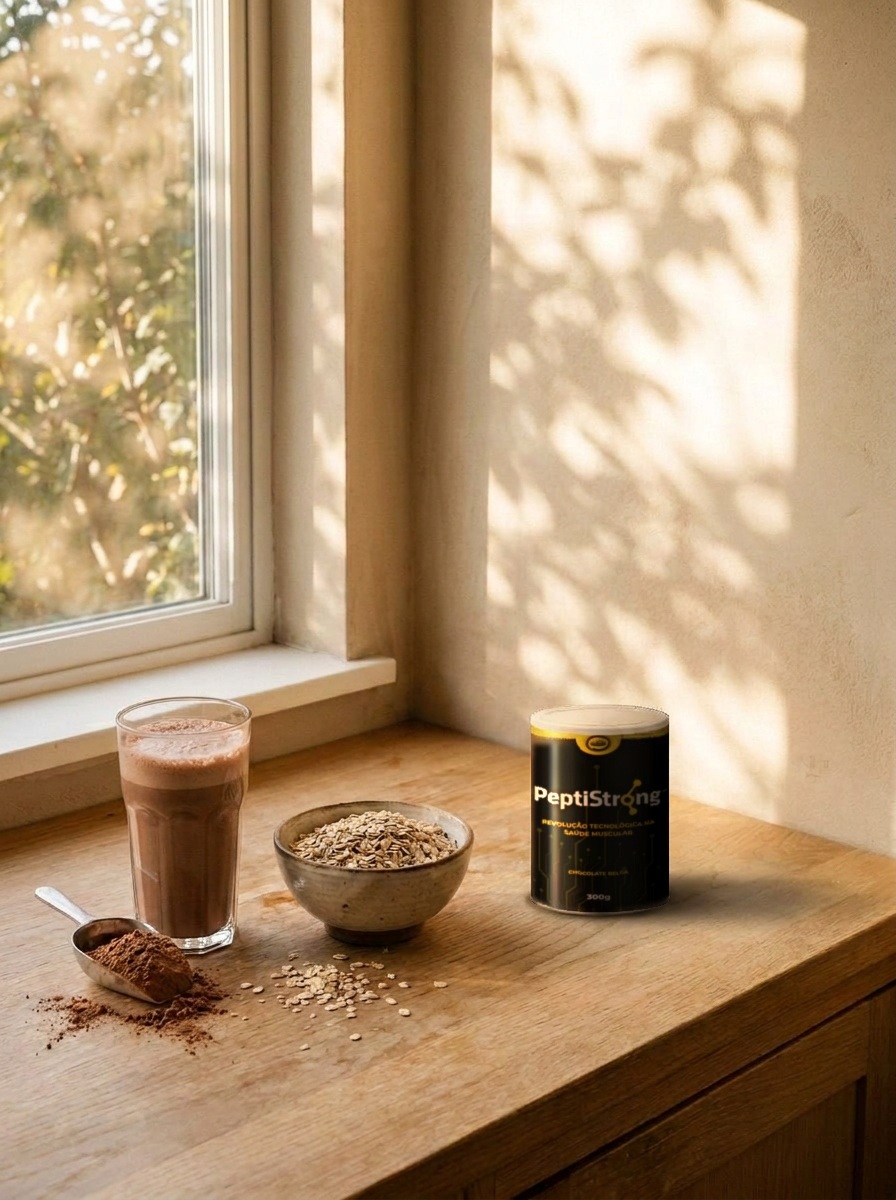
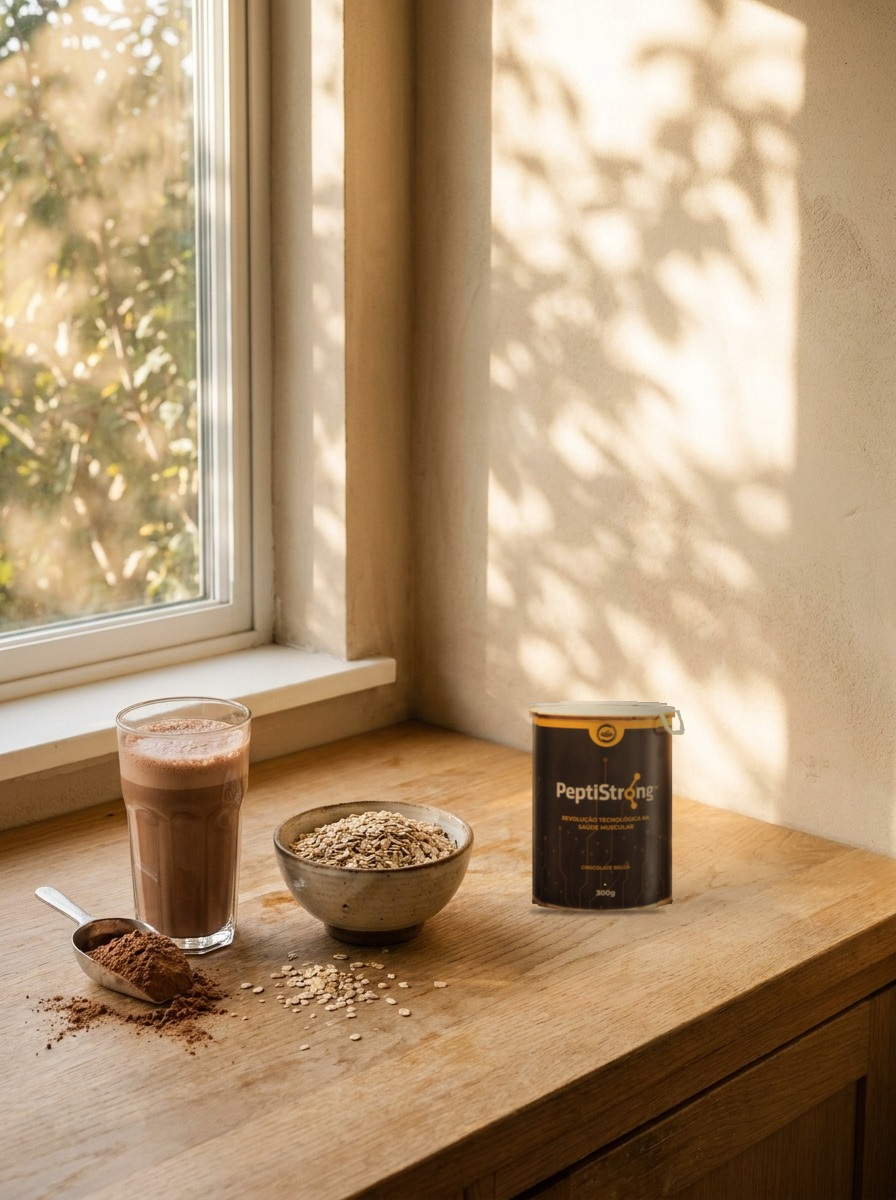
Procedimento obrigatório de inserção de produto em cena de IA, com verificação automática de fidelidade
Claude-Session: https://claude.ai/code/session_01Bm6rABw341qEUcQn2o9EUx

diff --git a/grade/insere_produto.py b/grade/insere_produto.py
@@ -1,8 +1,13 @@
-"""Insere a foto real de um produto (fundo branco) numa cena, com cuidado de naturalidade.
+"""Inserção de produto em cena gerada por IA. Procedimento obrigatório: docs/10-insercao-de-produto.md.
 
-Regra do padrão (docs/09-padrao-visual.md, seção 12): escala coerente com objetos vizinhos,
-perspectiva da câmera da cena (tampa e base em elipse), luz da cena sobre o produto
-(direção, cor e manchas de luz), sombra de contato e sombra projetada, mesma nitidez e grão.
+Funções em uso no procedimento:
+  px_por_cm(...)            escala da cena a partir de um objeto de referência de tamanho conhecido
+  razao_elipse(...)         ângulo da câmera (elipse da boca de copo/tigela/tampa)
+  insere_foto(...)          insere a FOTO REAL recortada do produto (sem deformar: curvatura_extra=0)
+  verifica_fidelidade(...)  compara o produto na arte final com a foto original (aprovação automática)
+
+Funções antigas (insere, recoloca_rotulo) ficaram para registro do teste de 08/11/2026; não usar em produção:
+partem do mockup 3D, que tem proporção errada e não é foto.
 """
 from PIL import Image, ImageDraw, ImageFilter, ImageEnhance, ImageChops
 import math
@@ -114,3 +119,99 @@ def recoloca_rotulo(cena_original, montagem, harmonizada, caixa_corpo, raio_luz=
     R = np.clip(bl(harmonizada) / bl(montagem), 0.45, 2.2)
     rot = np.clip(M * R, 0, 255) * 0.88 + A * 0.12
     return Image.fromarray((A * (1 - k) + rot * k).astype(np.uint8))
+
+
+def insere_foto(cena, recorte_png, base_centro, largura_corpo, frac_corpo=662/755, curvatura_extra=0.0,
+                cor_tampa=(240, 236, 228), luz_esq=1.12, luz_dir=0.72, cor_luz=(255, 240, 224), sombra_dir=(0.9, -0.12)):
+    """Insere uma FOTO REAL recortada do produto (PNG com transparência, tampa e alça reais).
+    largura_corpo: largura do corpo na cena, em px (medir contra o copo/tigela).
+    frac_corpo: largura do corpo / largura do recorte (o recorte inclui a alça).
+    curvatura_extra: quanto a câmera da cena olha mais de cima que a da foto (razão da elipse extra / 2).
+    luz_esq/luz_dir: ganho de luz nas laterais, para seguir a direção da luz da cena."""
+    import numpy as np
+    rc = Image.open(recorte_png).convert('RGBA') if isinstance(recorte_png, str) else recorte_png
+    w = int(largura_corpo / frac_corpo); h = int(rc.height * w / rc.width)
+    rc = rc.resize((w, h), Image.LANCZOS)
+    e = max(1, int(largura_corpo * curvatura_extra))
+    # 1) curvatura extra (câmera mais alta): colunas do corpo descem em arco; tampa ganha topo em elipse
+    out = Image.new('RGBA', (w, h + 2 * e), (0, 0, 0, 0))
+    cx0 = 0; cw = int(largura_corpo)
+    for x in range(w):
+        u = (x - cx0) / max(1, cw - 1) * 2 - 1
+        dy = int(round(e * math.sqrt(max(0, 1 - u * u)))) if -1 <= u <= 1 else 0
+        out.paste(rc.crop((x, 0, x + 1, h)), (x, e + dy))
+    topo = Image.new('RGBA', out.size, (0, 0, 0, 0)); td = ImageDraw.Draw(topo)
+    td.ellipse((1, 0, cw - 2, 2 * e + 3), fill=cor_tampa + (255,))
+    out = Image.alpha_composite(topo, out) if False else Image.alpha_composite(out, Image.new('RGBA', out.size, (0,0,0,0)))
+    base_alpha = out.split()[3]
+    topo_alpha = topo.split()[3]
+    merged = Image.alpha_composite(topo, out)  # corpo por cima; o topo só aparece onde abriu espaço
+    # 2) luz da cena: gradiente lateral + cor
+    rgb = merged.convert('RGB'); a = merged.split()[3]
+    g = Image.new('L', (rgb.width, 1))
+    for x in range(rgb.width):
+        t = x / (rgb.width - 1); g.putpixel((x, 0), int(255 * (luz_esq + (luz_dir - luz_esq) * t) / 1.3))
+    g = g.resize(rgb.size)
+    arr = np.asarray(rgb).astype(float) / 255
+    gl = np.asarray(g).astype(float)[..., None] / 255 * 1.3
+    arr = np.clip(arr * gl, 0, 1) * (np.array(cor_luz) / 255)
+    rgb = Image.fromarray((arr * 255).astype(np.uint8))
+    ox = int(base_centro[0] - cw / 2); oy = int(base_centro[1] - (h + 2 * e))
+    cena = cena.convert('RGB').copy()
+    # 3) manchas de luz da cena
+    reg = cena.crop((ox, oy, ox + rgb.width, oy + rgb.height)).convert('L').filter(ImageFilter.GaussianBlur(5))
+    st = reg.resize((1, 1), Image.BOX).getpixel((0, 0)) or 1
+    mod = reg.point(lambda v: max(0, min(255, int(255 * min(1.3, (v / st) ** 0.5) / 1.3))))
+    arr = np.asarray(rgb).astype(float) * (np.asarray(mod).astype(float)[..., None] / 255 * 1.3)
+    rgb = Image.fromarray(np.clip(arr, 0, 255).astype(np.uint8))
+    # 4) sombras de contato e projetada
+    camada = Image.new('L', cena.size, 0); cd = ImageDraw.Draw(camada)
+    bx0, bx1, by = ox, ox + cw, oy + rgb.height - e
+    dx, dy = sombra_dir[0] * h, sombra_dir[1] * h
+    cd.polygon([(bx0, by), (bx1, by), (bx1 + dx, by + dy), (bx0 + dx + cw * 0.2, by + dy)], fill=140)
+    camada = camada.filter(ImageFilter.GaussianBlur(max(8, cw // 9)))
+    contato = Image.new('L', cena.size, 0); ct = ImageDraw.Draw(contato)
+    ct.ellipse((ox + 1, by - e - 2, ox + cw - 1, by + e * 0.6 + 3), fill=220)
+    contato = contato.filter(ImageFilter.GaussianBlur(max(2, cw // 50)))
+    somb = ImageChops.lighter(camada, contato)
+    escuro = ImageChops.multiply(ImageEnhance.Brightness(cena).enhance(0.4), Image.new('RGB', cena.size, (255, 236, 222)))
+    cena = Image.composite(escuro, cena, somb)
+    # 5) light wrap, nitidez e grão
+    fundo = cena.crop((ox, oy, ox + rgb.width, oy + rgb.height)).filter(ImageFilter.GaussianBlur(8))
+    borda = ImageChops.subtract(a, a.filter(ImageFilter.MinFilter(5))).filter(ImageFilter.GaussianBlur(1.5))
+    rgb = Image.composite(Image.blend(rgb, fundo, 0.4), rgb, borda).filter(ImageFilter.GaussianBlur(0.5))
+    n = Image.effect_noise(rgb.size, 22).convert('RGB'); rgb = Image.blend(rgb, ImageChops.add(rgb, n, 2, -128), 0.12)
+    fin = rgb.convert('RGBA'); fin.putalpha(a)
+    res = cena.convert('RGBA'); res.alpha_composite(fin, (ox, oy)); return res.convert('RGB')
+
+
+
+def px_por_cm(tamanho_px, tamanho_cm):
+    """Escala da cena: tamanho medido em px de um objeto de referência / tamanho real em cm.
+    O objeto de referência deve estar na MESMA profundidade em que o produto vai ficar."""
+    return tamanho_px / tamanho_cm
+
+
+def razao_elipse(largura_px, altura_px):
+    """Razão altura/largura da elipse vista (boca do copo, borda da tigela, tampa do produto).
+    Cena e foto do produto precisam ter razões parecidas (tolerância ±0,03)."""
+    return altura_px / largura_px
+
+
+def verifica_fidelidade(arte, recorte_png, caixa, limite=0.90):
+    """Compara o produto na arte final com a foto original recortada.
+    caixa = (x0, y0, x1, y1) onde o recorte foi colado (tamanho final do recorte na cena).
+    Compara detalhes (passa-alta da luminância) dentro da máscara do recorte, o que ignora
+    ajuste global de luz/cor e pega qualquer letra, logo ou forma alterada.
+    Retorna (aprovado, correlação)."""
+    import numpy as np
+    rc = Image.open(recorte_png).convert('RGBA') if isinstance(recorte_png, str) else recorte_png
+    x0, y0, x1, y1 = caixa
+    rc = rc.resize((x1 - x0, y1 - y0), Image.LANCZOS)
+    alvo = arte.convert('RGB').crop(caixa)
+    hp = lambda im: (np.asarray(im.convert('L')).astype(float)
+                     - np.asarray(im.convert('L').filter(ImageFilter.GaussianBlur(3))).astype(float))
+    a, b = hp(rc.convert('RGB')), hp(alvo)
+    m = np.asarray(rc.split()[3].filter(ImageFilter.MinFilter(5))) > 200
+    c = float(np.corrcoef(a[m], b[m])[0, 1])
+    return c >= limite, round(c, 3)

diff --git a/docs/10-insercao-de-produto.md b/docs/10-insercao-de-produto.md
@@ -1,0 +1,101 @@
+# 10 — Procedimento: inserção de produto em cena gerada por IA
+
+**Obrigatório** para toda arte que mostra uma embalagem real dentro de uma cena gerada por IA. Criado em 08/11/2026 depois do teste com o Peptistrong (três versões reprovadas: lata colada, grande demais, tampa alterada, baixa demais). Complementa a seção 12 do `09-padrao-visual.md`.
+
+Princípio: **a embalagem é fato, a cena é ficção.** A cena se adapta ao produto; o produto nunca se adapta à cena.
+
+```mermaid
+flowchart LR
+    F[1. Ficha do produto<br/>medidas com régua] --> P[2. Fotos reais<br/>3 ângulos x 2 lados de luz]
+    P --> E[3. Escolher a foto<br/>ângulo e luz]
+    E --> C[4. Gerar a cena<br/>sob medida para a foto]
+    C --> M[5. Medir a cena<br/>escala e ângulo]
+    M --> I[6. Inserir sem deformar<br/>insere_foto]
+    I --> V{7. Verificações<br/>automáticas}
+    V -- falhou --> C
+    V -- passou --> R[8. Revisão humana<br/>100% de zoom + Ricardo]
+```
+
+## 1. Ficha do produto (uma vez por produto)
+
+Arquivo `grade/produtos/<produto>.json` (modelo: `peptistrong.json`).
+
+- **Medir com régua**: altura total com tampa, diâmetro (ou largura × profundidade), diâmetro da tampa. Em cm, uma casa decimal.
+- Registrar quem mediu e quando.
+- A proporção usada na arte sai **daqui**, nunca de mockup nem de estimativa em foto.
+
+## 2. Fotos reais do produto (uma vez por produto)
+
+Feitas na loja, com celular, **fundo liso** (cartolina off-white ou cinza), sem flash, luz de janela.
+
+| Ângulo da câmera | Altura da câmera | Luz da janela pela esquerda | Luz da janela pela direita |
+|---|---|---|---|
+| Frontal | meio da embalagem | foto 1 | foto 2 |
+| 30° de cima | um palmo acima da tampa | foto 3 | foto 4 |
+| 60° de cima | bem acima, quase de cima | foto 5 | foto 6 |
+
+- Rótulo virado de frente, sem reflexo cobrindo o texto, tampa e alça na posição de uso.
+- Uma régua ou um objeto padrão (copo americano) ao lado em uma foto extra, para conferir a proporção.
+- Guardar em `grade/produtos/<produto>/` e registrar na ficha a **razão da elipse da tampa** de cada foto (`razao_elipse`).
+- **Proibido:** mockup 3D, render do fabricante, foto de banco, embalagem gerada por IA.
+
+## 3. Escolher a foto do produto
+
+A peça começa pelo produto: escolher a foto (ângulo e lado da luz) que serve à ideia da arte. Essa escolha define a câmera e a luz da cena.
+
+## 4. Gerar a cena sob medida
+
+O prompt da cena descreve **a câmera e a luz da foto escolhida**:
+
+- altura e ângulo da câmera ("camera at eye level with the countertop", "camera 30 degrees above"),
+- lado e cor da luz ("warm window light from the left"),
+- **objeto de referência de tamanho conhecido** na mesma profundidade onde o produto vai ficar (copo americano 190 ml ≈ 9,5 cm de altura; caneca; mão),
+- **espaço vazio** na superfície onde o produto vai entrar,
+- "no packaging, no products, no text, no logos".
+
+Gerar a cena **sem** o produto. Nunca pedir à IA para desenhar a embalagem.
+
+## 5. Medir a cena
+
+1. **Escala** (`px_por_cm`): medir em px a altura do objeto de referência e dividir pela altura real em cm.
+2. **Ângulo** (`razao_elipse`): medir a elipse da boca do copo ou da tigela.
+3. **Conferir com a foto do produto**: a razão da elipse da cena e a da tampa na foto escolhida devem diferir **no máximo 0,03**. Se diferir mais: trocar a foto do produto (outro ângulo) ou gerar a cena de novo. **Nunca deformar a embalagem para compensar.**
+4. **Luz**: o lado claro do produto na foto tem que estar do mesmo lado da janela da cena. Se não estiver, trocar a foto (a do outro lado da luz). Nunca espelhar a imagem (o texto inverte).
+
+## 6. Inserir
+
+`grade/insere_produto.py` → `insere_foto(cena, recorte, base_centro, largura_corpo)`:
+
+- `largura_corpo` = diâmetro real (cm, da ficha) × `px_por_cm` da cena. Altura sai da proporção da foto.
+- `curvatura_extra = 0` (sem deformar).
+- Ajustes permitidos: exposição e cor **globais** do produto para casar com a cena, sombra de contato, sombra projetada para o lado oposto à luz, manchas de luz da cena, borda (light wrap), grão e desfoque iguais aos da cena.
+- **Não permitido:** redesenhar tampa, alça, rótulo ou qualquer parte da embalagem; alterar proporção; espelhar.
+
+**Harmonização por IA (opcional):** só da cena ao redor. Depois dela, os pixels da embalagem voltam da foto original (máscara) e passam pela verificação. No teste, a IA trocou "TECNOLÓGICA" por "TEENOUÓSICA" e redesenhou a tampa.
+
+## 7. Verificações automáticas (todas obrigatórias)
+
+| Verificação | Como | Aprova se |
+|---|---|---|
+| **Fidelidade da embalagem** | `verifica_fidelidade(arte, recorte, caixa)`: correlação dos detalhes (letras, logo, bordas) entre a arte e a foto original | **≥ 0,90**. Referência do teste: lata real inserida = 0,937; rótulo reescrito pela IA = 0,009 |
+| **Escala** | altura do produto em px ÷ `px_por_cm` | dentro de **±3%** da altura real da ficha |
+| **Proporção** | largura ÷ altura do produto na arte | igual à da ficha, **±2%** |
+| **Ângulo** | razão da elipse da cena × da foto do produto | diferença **≤ 0,03** |
+| **Luz** | lado claro do produto × lado da janela | mesmo lado |
+
+## 8. Revisão humana
+
+- Ver a arte em **100% de zoom** na região do produto: tampa, alça, base, sombra e texto.
+- Ver no tamanho do feed (celular): o produto tem que passar despercebido como foto.
+- **Aprovação do Ricardo.** Na dúvida, a arte não sai.
+
+## Registro do teste de 08/11/2026
+
+| Versão | Problema | Lição |
+|---|---|---|
+| 1 | lata do mockup grande, sem perspectiva, sem sombra | escala por objeto de referência; sombras |
+| 2 | mockup com proporção errada (mais alto e fino que a real) | medir o produto real; não usar mockup |
+| 3 | harmonização por IA reescreveu o rótulo e a tampa | IA nunca nos pixels da embalagem; verificação automática |
+| 4 | foto real com câmera na altura da lata em cena vista de cima; luz do lado oposto | a cena é gerada para a foto do produto, não o contrário |
+
+Pendente para a 1ª arte aprovada: **medidas com régua e as 6 fotos do Peptistrong** (seção 2).

diff --git a/CONTEXTO.md b/CONTEXTO.md
@@ -58,7 +58,7 @@ Este arquivo resume a conversa de 22/10 a 08/11/2026 que levou ao projeto. Leia 
 
 - **Padrão visual proposto** (base 2º semestre de 2025 + marinho `#102140`): `docs/09-padrao-visual.md`. Fontes gratuitas em `grade/assets/fonts/` (Playfair Display, Poppins, IBM Plex Mono, Archivo Black).
 - **Decisão de 08/11:** sem rosto da marca e sem sessão de fotos por ora, as imagens serão geradas por IA, com as regras da seção 11 do padrão. Automação "comente PALAVRA" (ManyChat) fica para depois.
-- **Teste do padrão com IA** (5 artes): `grade/teste-padrao-2025/`. Ricardo aprovou a direção; pediu naturalidade extrema ao inserir produto em cena (seção 12 do padrão).
+- **Teste do padrão com IA** (5 artes): `grade/teste-padrao-2025/`. Ricardo aprovou a direção. A arte com produto (D) **não passou**: virou o procedimento `docs/10-insercao-de-produto.md`. Para a 1ª arte com produto: medidas com régua e 6 fotos do Peptistrong (3 ângulos × luz dos dois lados).
 - **Linha editorial (08/11):** polemizar os temas; **queda de cabelo é o foco**, depois perda de massa magra, falta de zinco e visão (seção 13 do padrão, com os limites de saúde).
 
 ## Decisões tomadas

diff --git a/grade/teste-padrao-2025/LEIA-ME.md b/grade/teste-padrao-2025/LEIA-ME.md
@@ -28,3 +28,5 @@ Pendências antes de usar de verdade:
 2. `ia/cozinha_com_produto.jpg`: montagem com `../insere_produto.py` (`insere`), com a **proporção da lata real** (largura ≈ 0,77 da altura, medida nas fotos reais de 2025; o mockup 3D é mais alto e fino), altura menor que a do copo, mais ao fundo, tampa e base em elipse, luz e sombras.
 3. `ia/cozinha_harmonizada.jpg`: harmonização no Runway (luz, tampa, sombra, reflexos). **A IA estragou o texto do rótulo** ("TEENOUÓSICA", "COCOOLAIS").
 4. `ia/cozinha_final.jpg`: `recoloca_rotulo` devolve o rótulo original iluminado pela luz da IA. Texto conferido.
+
+**Resultado:** nenhuma das versões de D passou no padrão do Ricardo. As lições viraram o procedimento `docs/10-insercao-de-produto.md`. `ia/cozinha_final.jpg` hoje é a versão 4 (foto real da lata, sem IA na embalagem, fidelidade 0,937), ainda reprovada por ângulo e luz incompatíveis com a cena.

diff --git a/docs/09-padrao-visual.md b/docs/09-padrao-visual.md
@@ -139,6 +139,8 @@ Enquanto não há sessão de fotos nem rosto da marca, as imagens podem ser gera
 
 Pedido do Ricardo em 08/11/2026, depois do primeiro teste (lata de Peptistrong "colada" na cozinha). **Vale para toda arte que coloca a embalagem real dentro de outra imagem.** Se não ficar indistinguível de uma foto, a arte não sai.
 
+**O procedimento obrigatório, passo a passo e com critérios de aprovação, está em `10-insercao-de-produto.md`.** O resumo abaixo não substitui o procedimento.
+
 Checklist obrigatório:
 
 1. **Escala e proporção:** medir contra um objeto vizinho na mesma profundidade (copo, tigela, mão). A lata de Peptistrong 300 g é **mais baixa que um copo alto e mais ou menos da mesma largura**; largura ≈ 0,77 da altura (medido em foto real). **Não usar a proporção do mockup 3D** (`assets/peptistrong.jpg`), que é mais alto e fino que a lata de verdade.

diff --git a/README.md b/README.md
@@ -14,6 +14,7 @@ Projeto do Instagram da Medicinal (Maringá/PR): grade de conteúdo, artes, aces
 - [`docs/07-fase-2025.md`](docs/07-fase-2025.md): 2025 e a comparação com 2024.
 - [`docs/08-feed-2026.md`](docs/08-feed-2026.md): o feed de 2026, as fases do ano e o diagnóstico.
 - [`docs/09-padrao-visual.md`](docs/09-padrao-visual.md): **padrão visual e de conteúdo do feed** (paleta, fontes, modelos, séries, legenda, checklist). Rascunho para aprovação.
+- [`docs/10-insercao-de-produto.md`](docs/10-insercao-de-produto.md): **procedimento obrigatório** para colocar embalagem real em cena de IA (medidas, fotos, cena sob medida, verificações automáticas).
 - [`grade/`](grade/): código da grade (`grade-instagram.html`) e os geradores das artes (`semana-2026-11-09/`: `gera.py` v1 por produto, `gera2.py` v2 azul-marinho com fotos).
 
 ## Regras que valem sempre
